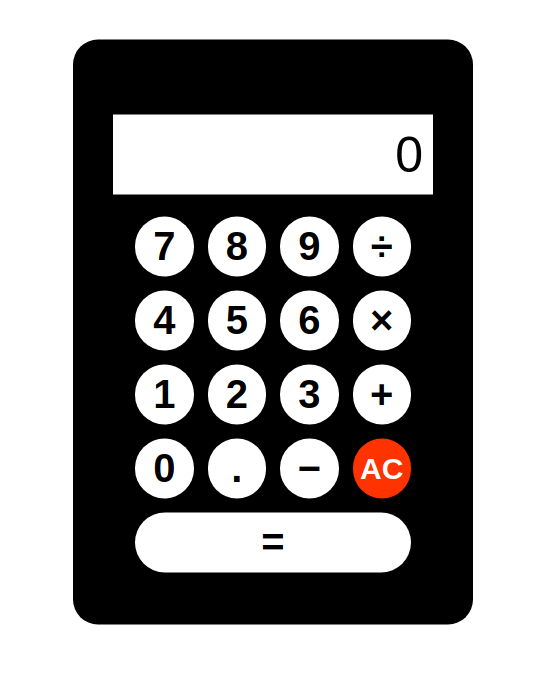
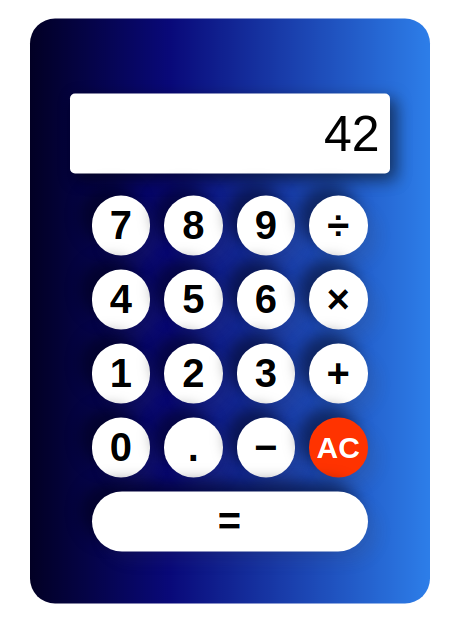
change colors and update screenshot

diff --git a/style.css b/style.css
@@ -34,9 +34,13 @@ html {
     height: 80px;
     border: none;
     background-color: rgb(255, 255, 255);
+    box-shadow:
+        5px 5px 15px rgba(8, 8, 8, 0.5),
+        10px 10px 15px rgba(0, 0, 0, 0.12);
     color: black;
     text-align: right;
     padding-right: 10px;
+    border-radius: 5px;
 }
 
 .calculator-btns {
@@ -58,6 +62,10 @@ button {
     margin: 7px;
     padding: 5px;
     flex: 1 0 18%;
+    box-shadow:
+        -10px -10px 15px rgba(0, 2, 14, 0.5),
+        10px 10px 15px rgba(70, 70, 70, 0.12);
+    outline: none;
 }
 
 .all-clear {
